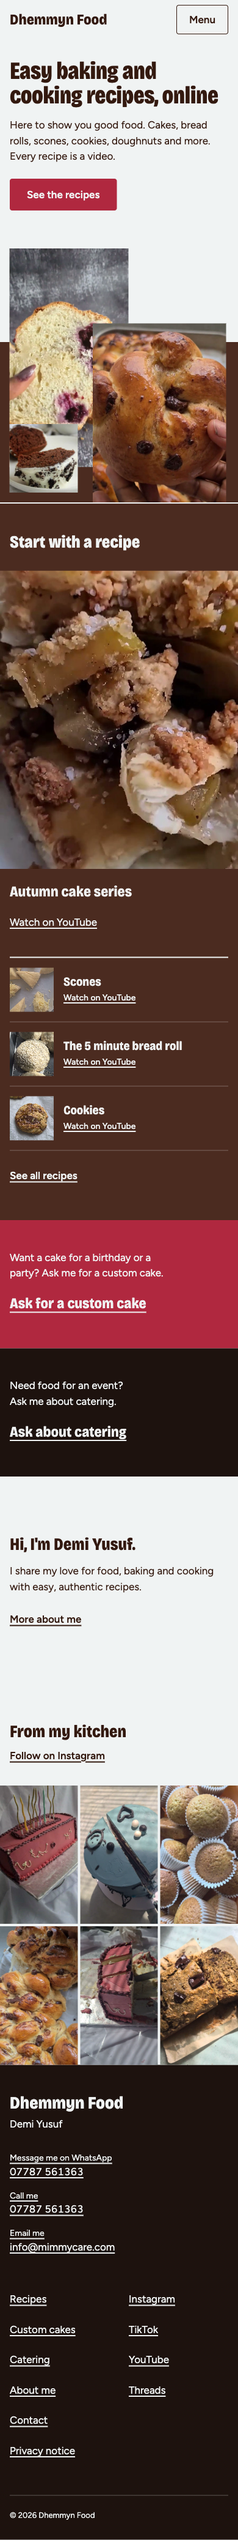
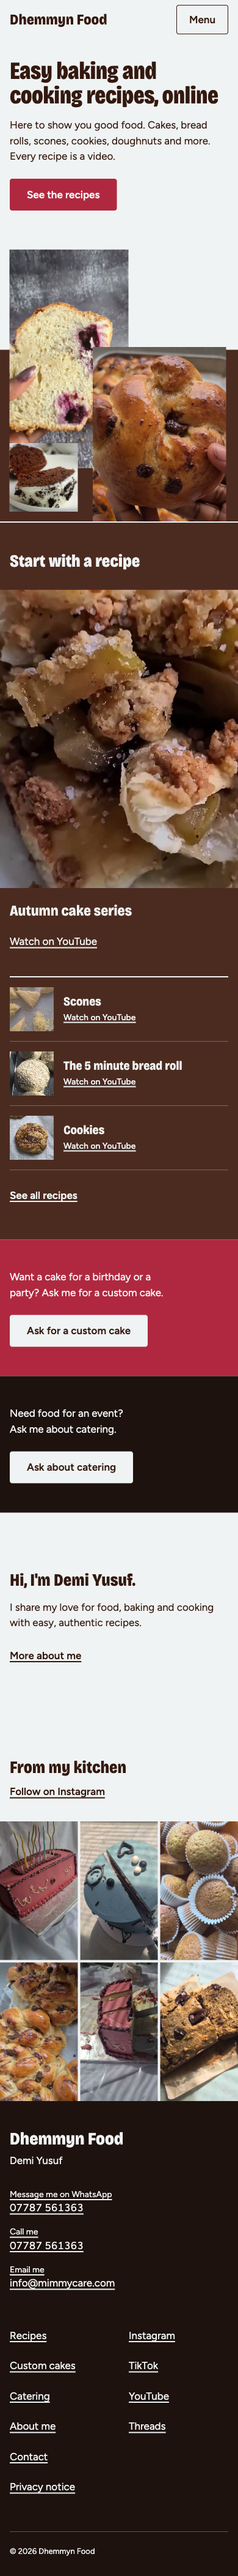
Homepage polish 2

Changed region(s): [[0.0, 0.0, 1.0, 0.9945], [0.5231, 0.9012, 0.7385, 0.9634]]

diff --git a/app/src/pages/home/Hero.tsx b/app/src/pages/home/Hero.tsx
@@ -54,50 +54,53 @@ export default function Hero() {
         </motion.div>
       </div>
 
-      <div className="relative h-[clamp(27rem,112vw,35rem)] md:ml-auto md:w-full md:max-w-[40rem] lg:ml-0 lg:h-auto lg:min-h-[40rem] lg:max-w-none">
+      <div className="relative h-[clamp(27rem,120vw,35rem)] md:ml-auto md:h-[40rem] md:w-full md:max-w-[40rem] lg:ml-0 lg:h-auto lg:min-h-[40rem] lg:max-w-none">
         <div
           aria-hidden="true"
-          className="absolute inset-x-0 top-[40%] bottom-0 bg-sponge md:-left-[100vw] lg:top-[22%] lg:left-[18%]"
+          className="absolute inset-x-0 top-[40%] bottom-0 bg-sponge md:-left-[100vw] lg:top-[22%] lg:left-[min(18%,7.9rem)]"
         />
-        <motion.div
-          {...rise(0.12)}
-          className="absolute top-[5%] left-[4%] w-[min(50%,290px)] lg:top-16 lg:left-[6%]"
-        >
-          <div className="aspect-[873/1600] overflow-hidden">
+        {/* The photos keep the proportions of the 1280 px layout: the scene stops growing at 44rem, while the tray runs on to the screen edge. */}
+        <div className="absolute inset-y-0 left-0 w-full lg:max-w-[44rem]">
+          <motion.div
+            {...rise(0.12)}
+            className="absolute top-[5%] left-[4%] w-[min(50%,290px)] lg:top-16 lg:left-[6%]"
+          >
+            <div className="aspect-[873/1600] overflow-hidden">
+              <img
+                src={berryPhoto}
+                alt="A hand holds a slice of pale sponge with pockets of dark berry filling."
+                width={900}
+                height={1600}
+                fetchPriority="high"
+                className="photo -ml-[1.55%] w-[103.1%] max-w-none"
+              />
+            </div>
+          </motion.div>
+          <motion.div
+            {...rise(0)}
+            className="absolute right-[5%] bottom-[-22%] w-[min(56%,340px)] lg:right-[6%] lg:bottom-[-60px]"
+          >
             <img
-              src={berryPhoto}
-              alt="A hand holds a slice of pale sponge with pockets of dark berry filling."
+              src={rollsPhoto}
+              alt="A hand holds a glazed chocolate chip roll above a tray of more rolls."
               width={900}
               height={1600}
-              fetchPriority="high"
-              className="photo -ml-[1.55%] w-[103.1%] max-w-none"
+              className="photo w-full"
             />
-          </div>
-        </motion.div>
-        <motion.div
-          {...rise(0)}
-          className="absolute right-[5%] bottom-[-22%] w-[min(56%,340px)] lg:right-[6%] lg:bottom-[-60px]"
-        >
-          <img
-            src={rollsPhoto}
-            alt="A hand holds a glazed chocolate chip roll above a tray of more rolls."
-            width={900}
-            height={1600}
-            className="photo w-full"
-          />
-        </motion.div>
-        <motion.div
-          {...rise(0.24)}
-          className="absolute bottom-4 left-[4%] size-28 lg:bottom-7 lg:left-[3%] lg:size-50"
-        >
-          <img
-            src={profilePhoto}
-            alt="A slice of chocolate sponge with white cream and Oreo crumbs on a white plate."
-            width={400}
-            height={400}
-            className="photo size-full object-cover"
-          />
-        </motion.div>
+          </motion.div>
+          <motion.div
+            {...rise(0.24)}
+            className="absolute bottom-4 left-[4%] size-28 lg:bottom-7 lg:left-[3%] lg:size-50"
+          >
+            <img
+              src={profilePhoto}
+              alt="A slice of chocolate sponge with white cream and Oreo crumbs on a white plate."
+              width={400}
+              height={400}
+              className="photo size-full object-cover"
+            />
+          </motion.div>
+        </div>
       </div>
     </section>
   )

diff --git a/app/src/pages/home/CakesAndCatering.tsx b/app/src/pages/home/CakesAndCatering.tsx
@@ -1,9 +1,7 @@
-import { Link } from 'react-router'
-
-const largeLink =
-  'link-line mt-3 inline-block origin-left py-3 font-display text-h3-lead font-bold font-stretch-[85%] md:text-h3-lead-lg motion-safe:transition-[scale] motion-safe:duration-100 motion-safe:active:scale-98'
+import ButtonLink from '../../components/ButtonLink'
 
 // Two text-only halves: cake red and crumb. Stacked with no gap on a phone.
+// Each half ends on a button, because an enquiry is the page's second job.
 export default function CakesAndCatering() {
   return (
     <section aria-label="Cakes and catering" className="md:grid md:grid-cols-2">
@@ -11,17 +9,21 @@ export default function CakesAndCatering() {
         <p className="max-w-[28ch] text-lead text-balance md:text-lead-lg">
           Want a cake for a birthday or a party? Ask me for a custom cake.
         </p>
-        <Link to="/custom-cakes" className={largeLink}>
-          Ask for a custom cake
-        </Link>
+        <div className="mt-6">
+          <ButtonLink to="/custom-cakes" onDark>
+            Ask for a custom cake
+          </ButtonLink>
+        </div>
       </div>
       <div className="surface-dark bg-crumb px-4 py-12 text-paper md:px-8 md:py-16 lg:px-12">
         <p className="max-w-[28ch] text-lead text-balance md:text-lead-lg">
           Need food for an event? Ask me about catering.
         </p>
-        <Link to="/catering" className={largeLink}>
-          Ask about catering
-        </Link>
+        <div className="mt-6">
+          <ButtonLink to="/catering" onDark>
+            Ask about catering
+          </ButtonLink>
+        </div>
       </div>
     </section>
   )

diff --git a/app/src/components/ButtonLink.tsx b/app/src/components/ButtonLink.tsx
@@ -16,13 +16,21 @@ const base =
 
 const looks = {
   primary: 'bg-cake-red text-paper hover:bg-cake-red-deep',
+  // Cake red cannot sit on a cake red band, so on dark surfaces the primary is paper with an ink label.
+  primaryOnDark: 'bg-paper text-ink hover:bg-paper/90',
   secondary: 'border border-ink text-ink hover:bg-ink/8',
   secondaryOnDark: 'border border-paper text-paper hover:bg-paper/10',
 }
 
 export default function ButtonLink({ to, children, variant = 'primary', onDark = false }: Props) {
   const look =
-    variant === 'primary' ? looks.primary : onDark ? looks.secondaryOnDark : looks.secondary
+    variant === 'primary'
+      ? onDark
+        ? looks.primaryOnDark
+        : looks.primary
+      : onDark
+        ? looks.secondaryOnDark
+        : looks.secondary
   return (
     <Link to={to} className={`${base} ${look}`}>
       {children}

diff --git a/app/src/components/LeadRecipe.tsx b/app/src/components/LeadRecipe.tsx
@@ -13,7 +13,7 @@ type Props = {
 export default function LeadRecipe({ recipe, photoClassName = '', textClassName = '' }: Props) {
   return (
     <div className="contents group/lead">
-      <div className={`relative block overflow-hidden bg-sponge ${photoClassName}`}>
+      <div className={`relative overflow-hidden bg-sponge ${photoClassName}`}>
         <img
           src={recipe.photo}
           alt={recipe.alt}

diff --git a/08-CHANGE-MANAGEMENT/CHANGELOG.md b/08-CHANGE-MANAGEMENT/CHANGELOG.md
@@ -17,6 +17,21 @@
 - Tested: the commands and checks run, and the result
 ```
 
+## [2026-10-02] Homepage polish pass (Impeccable polish)
+
+- Change: one batched inspection, then one batch of fixes and one confirming round, homepage only. Owner limits kept: other pages, the favicon, the lead photo outside the link and the 72 px thumbnails were not touched. Found and fixed: (1) at 1440 and 1920 px the hero photos moved apart, stopped overlapping and left a gap of about 280 px at 1920, so the first screen was no longer a composed scene. The photo scene now stops growing at 44rem (704 px) and the tray runs on to the screen edge (`Hero.tsx`). (2) At 744 to 1127 px the 112 px slice sat entirely inside the berry photo (114% overlap). The stage is now 640 px tall there and the overlap is 46%, close to the phone's 36 to 39%. (3) Removed a stray `block` class on the lead photo wrapper (`LeadRecipe.tsx`). The checked list: every tab stop has a visible ring (32 stops at 390 px, 36 at 1280 px, none without), the new buttons have a paper ring on the dark halves, hover lifts 2 px in 120 ms with paper at 90%, press scales to 0.98 in 100 ms, and no sideways scroll at 320, 360, 375, 390, 430, 744, 900, 1127, 1128, 1280, 1440 and 1920 px. DESIGN-SYSTEM.md (Hero composition) says the same. No prior critique snapshot was read, because none was saved; the critique in the conversation was the input.
+- Not fixed, on purpose: the empty pages behind the other links and the empty page at a wrong address (next step), the favicon 404 (publishing step), the strip links all starting "Watch the video on YouTube:" (CONTENT.md wording), the same phone number shown twice in the footer (the plan shows WhatsApp, phone and email together).
+- Reason: owner request to polish the homepage
+- Files: app/src/pages/home/Hero.tsx, app/src/components/LeadRecipe.tsx, 03-DESIGN/DESIGN-SYSTEM.md, 08-CHANGE-MANAGEMENT/CHANGELOG.md
+- Tested: PASS: `npm run build` and `npm run lint`, no errors. PASS (Playwright on the owner's preview at http://localhost:5175, measured by script, and screenshots looked at for 1920 px before and after): the figures above. NOT TESTED: layout shift again after these changes, VoiceOver, 200 per cent zoom, Safari and Firefox, and the 744 to 1127 px hero by eye (measured only). The six screenshots in 06-QA/screenshots (home-390 and home-1280, each top, scrolled and full) were retaken after these changes, on the owner's request, and match the current page.
+
+## [2026-10-02] Homepage: enquiry buttons and more room for the slice
+
+- Change: after the design critique, on the owner's instruction and on the homepage only. (1) "Ask for a custom cake" and "Ask about catering" in Cakes and catering are now real buttons (52 px high, 226 and 202 px wide at 390 px) and not large underlined links. Cake red cannot sit on the cake red half, so `ButtonLink` has a new primary-on-dark look: paper fill, ink label (14.63 to 1), hover paper at 90% and a 2 px lift, paper focus ring. (2) The phone hero stage is 120% of the screen width (468 px at 390 px, capped at 560 px) and not 112%, so the 112 px chocolate sponge slice overlaps the berry photo by 41 px (37% of the slice, was 70 px or 62%). From 744 px nothing changed (stage 560 px at 744, 640 px at 1280). Kept as they are, by the owner's choice: the lead photo outside the link, the 72 px recipe thumbnails, and every other page, which the next step builds. DESIGN-SYSTEM.md (Section rhythm, Primary button on dark, the contrast table row, Hero composition) and UX-SPEC.md (Home plan, item 3) now say the same. Impeccable was not updated, by the owner's choice.
+- Reason: owner decisions after the Impeccable critique (priority issue: the enquiry path had the weakest affordance on the page)
+- Files: app/src/components/ButtonLink.tsx, app/src/pages/home/CakesAndCatering.tsx, app/src/pages/home/Hero.tsx, 03-DESIGN/DESIGN-SYSTEM.md, 03-DESIGN/UX-SPEC.md, 08-CHANGE-MANAGEMENT/CHANGELOG.md
+- Tested: PASS: `npm run build` and `npm run lint`, no errors. PASS (Playwright on the owner's preview, http://localhost:5175): at 390 px the buttons are 52 px high with ink on paper, the slice overlap is 41 px, the page has no sideways scroll; at 744 and 1280 px no sideways scroll and the buttons fit their halves (372 px at 744). Looked at screenshots of the hero stage and the two halves at 390 px. NOT TESTED: the hover lift and the paper focus ring on the new buttons by hand, the 744 to 1127 px hero by eye after the change (the stage height there is unchanged at 560 px), and the layout shift again. The six screenshots in 06-QA/screenshots were taken before this change; they were retaken in the polish pass entry above.
+
 ## [2026-10-02] Homepage wow check, two rounds
 
 - Change: ran the wow check (PROJECT-OS.md section 6, DESIGN-AUDIT.md) on the homepage from screenshots at 390 and 1280 px, top and scrolled, saved in 06-QA/screenshots. Round 1 scores: first impression 8, distinctiveness 8, craft and detail 7, typography 7, motion 8, phone experience 8. Fixes, most serious first: (1) "Ask for a custom cake" and "Ask about catering" were 42 px tall, under the 48 px target in ACCESSIBILITY.md, now 50 px (`py-3`); (2) "Need food for an event? Ask me about catering." left the single word "catering." on a line, so the two Cakes and catering lines use `text-balance` and all paragraphs use `text-wrap: pretty`; (3) the footer contact rows mixed a small label and a larger value on one line, so the label now sits above the value. Round 2 scores: first impression 8, distinctiveness 8, craft and detail 8, typography 8, motion 8, phone experience 8. Nothing is under 8, so no third round. Reasons for each score are in 06-QA/DESIGN-AUDIT.md (wow check table). The other tables in that file stay NOT TESTED. The scores are the assistant's own, from screenshots, not the owner's.

diff --git a/03-DESIGN/DESIGN-SYSTEM.md b/03-DESIGN/DESIGN-SYSTEM.md
@@ -31,7 +31,7 @@ Hairline rules are ink at 30% opacity (`border-ink/30`). They are decorative and
 
 | Text | On | Ratio | Where | Needs | Result |
 |---|---|---|---|---|---|
-| Ink | Paper | 14.63 | Body text, headings, input text | 4.5 | PASS |
+| Ink | Paper | 14.63 | Body text, headings, input text, the primary button on dark | 4.5 | PASS |
 | Sponge | Paper | 11.30 | Hints, secondary text, input border | 4.5 (border 3) | PASS |
 | Paper | Sponge | 11.30 | Text in the recipe band, tray | 4.5 | PASS |
 | Paper | Crumb | 16.43 | Footer, Catering half | 4.5 | PASS |
@@ -97,8 +97,9 @@ The stage hides what overflows, so the hand holding the roll is cut by the botto
 
 - **Contrast of scale:** 40 px headline against 17 px text on a phone, 88 px against 20 px on a laptop. A 340 px photo against a 200 px square.
 - **In view without scrolling at 390 x 844:** headline, support line and button. The button bottom measured 306 px in the 34 px version, so about 320 px at 40 px: re-measure when built.
-- **No dead space:** the stage is at least 430 px tall on a phone and fills with layers 2 to 5.
-- **From 744 to 1127 px (NOT TESTED):** the same stacked layout as a phone, with the stage up to 640 px wide, aligned right, and the tray full width behind it.
+- **No dead space:** the stage is at least 430 px tall on a phone and fills with layers 2 to 5. On a phone it is 120% of the screen width (468 px at 390, capped at 560 px), so the 112 px slice overlaps the berry photo by about a third (41 px at 390) and not more than half. Changed on 2 October 2026 from 112%, where it overlapped by 62%.
+- **From 744 to 1127 px (checked by measurement on 2 October 2026 at 744, 900 and 1127):** the same stacked layout as a phone, with the stage up to 640 px wide and 640 px tall, aligned right, and the tray full width behind it. The slice overlaps the berry photo by 46%.
+- **Wider than 1304 px:** the photos stop growing. The scene is at most 44rem (704 px) wide and sits at the left of the right column, next to the headline, while the tray runs on to the right screen edge, starting 18% of the scene in (at most 7.9rem). Before this, at 1440 and 1920 px the photos moved apart and no longer overlapped. Checked at 1440 and 1920 px: the berry and roll photos overlap by 10 px, the roll photo ends level with the navigation's right edge at 1920 px.
 
 ## Section rhythm
 
@@ -110,7 +111,7 @@ No two sections on a page share a layout. Every section has one considered detai
 |---|---|---|
 | Opening | Layered collage | The tray block, and the hand bleeding off the bottom edge. |
 | Start with a recipe | Full-bleed sponge band, asymmetric split | The lead photo runs flush to the left edge and the full height of the band (laptop). Below, a ruled list: 2 px paper rule on top, 1 px rules between rows, thumbnails edge to edge. |
-| Cakes and catering | Two halves, text only | Left half cake red, right half crumb. Each link is set at lead recipe title size with a 2 px underline. Stacked on a phone, no gap. |
+| Cakes and catering | Two halves, text only | Left half cake red, right half crumb. Each half ends on a button (primary on dark, below), because an enquiry is the page's second job. Stacked on a phone, no gap. Changed on 2 October 2026 from a large underlined link, on the owner's instruction after the critique. |
 | Meet Demi | Generous quiet section, 96 px padding | "Hi, I'm Demi Yusuf." set at section heading size, the rest at lead size, one column. |
 | From my kitchen | Photo strip | Six tall photos edge to edge with 4 px paper gutters: 3 columns by 2 rows on a phone, one row of six from 1128 px. |
 | Footer | Crumb band | Phone number in tabular figures at lead size. |
@@ -147,6 +148,7 @@ Labels sit above fields. Cards are not used: the recipe row and the lead recipe 
 - Disabled: 60% opacity, no hover or lift. Used only while a form is sending.
 - Loading: the label reads "Sending" (or "Try again" after a failure), `aria-disabled="true"`, cursor "progress".
 - Error, empty: NOT APPLICABLE. The form carries the error.
+- On dark (Home, Cakes and catering, on cake red and crumb): paper fill and ink label, same size and radius. Cake red cannot sit on the cake red half, so the colours swap. Ink on paper is 14.63. Hover: paper at 90% fill and lift 2 px (120 ms). Focus: paper ring, 3 px offset. Press and loading as above.
 
 **Secondary button** (paper, ink label, 1 px ink border, same size). Hover: ink at 8% fill and lift 2 px. Press and focus as above. On dark: paper border and label, paper at 10% fill on hover. No screen uses two buttons yet.
 

diff --git a/03-DESIGN/UX-SPEC.md b/03-DESIGN/UX-SPEC.md
@@ -75,7 +75,7 @@ Seven pages. The owner chose to keep Privacy notice and Contact (2 October 2026)
 
 1. **Opening:** the headline, one line about Dhemmyn Food, a button to Recipes, and three of the owner's own pictures layered with the text: a hand holding a chocolate chip roll, a hand holding a slice of berry sponge, and the small chocolate sponge profile picture. (You supply: headline, intro line and button text for the Home section of CONTENT.md; the three picture files, all in 03-DESIGN/photos. Done. How they overlap and arrive is in DESIGN-DNA.md, "Signature moment".)
 2. **Start with a recipe:** one large lead recipe, three more recipes beneath it as a ruled list (a thin line between rows, no boxes, so they are not three identical cards in a row), and a "See all recipes" link. Changed on 2 October 2026 from three smaller cards in a row, because PROJECT-OS.md section 6 bans three identical cards. (You supply: nothing new. It reuses the Recipes thumbnails, titles and links. Say which recipe leads. The default is the autumn cake series.)
-3. **Cakes and catering:** a band in two halves, one with the first line of Custom cakes and a link, one with the first line of Catering and a link. Text only, no icons. (You supply: nothing. The words are approved.)
+3. **Cakes and catering:** a band in two halves, one with the first line of Custom cakes and a button, one with the first line of Catering and a button (changed from links on 2 October 2026, see DESIGN-SYSTEM.md). Text only, no icons. (You supply: nothing. The words are approved.)
 4. **Meet Demi:** two sentences and a link to About me. (You supply: nothing. It uses the first two sentences of About me, approved.)
 5. **From my kitchen:** one row of six of the owner's own pictures, each linking to the YouTube Short it is the cover of, and a "Follow on Instagram" link. Each picture's link name says it opens the video on YouTube. (You supply: nothing. The six images, their Short links in CREDITS.md and their alt text are done. The owner could not get Instagram post links.)
 
